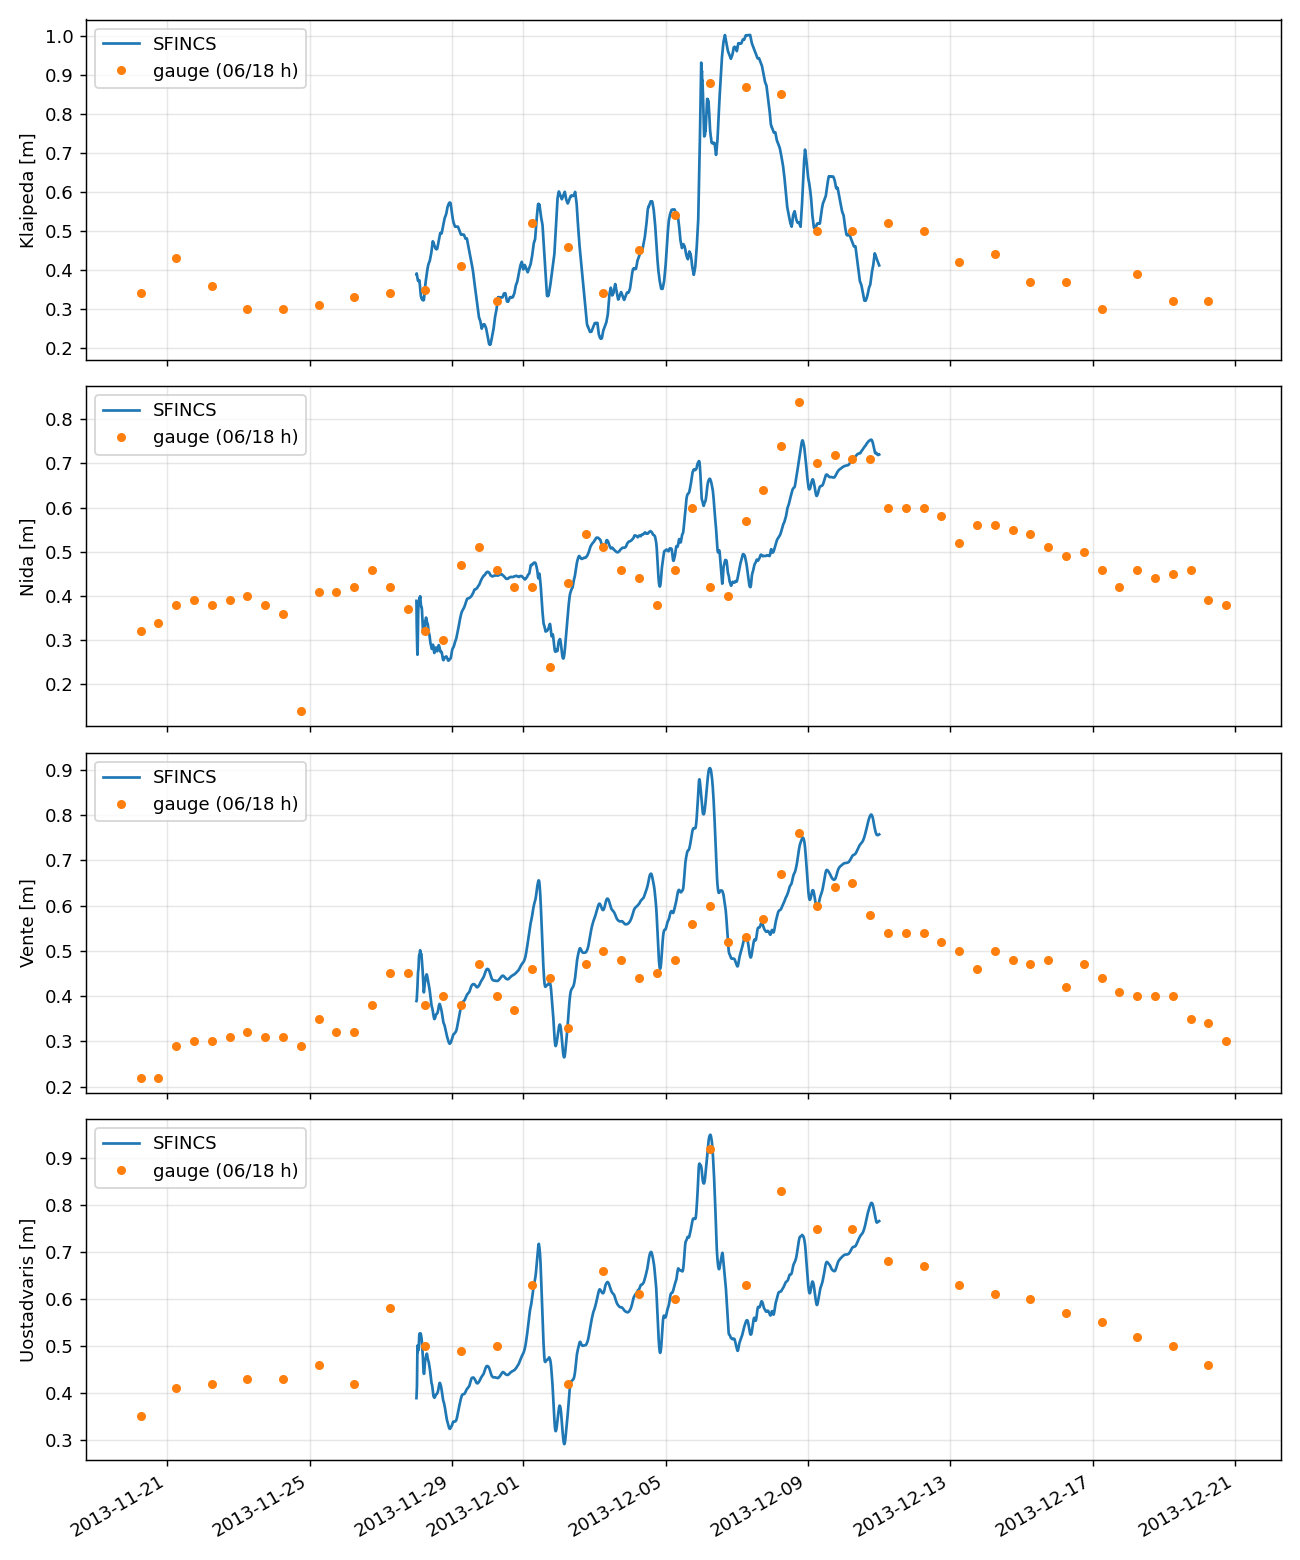
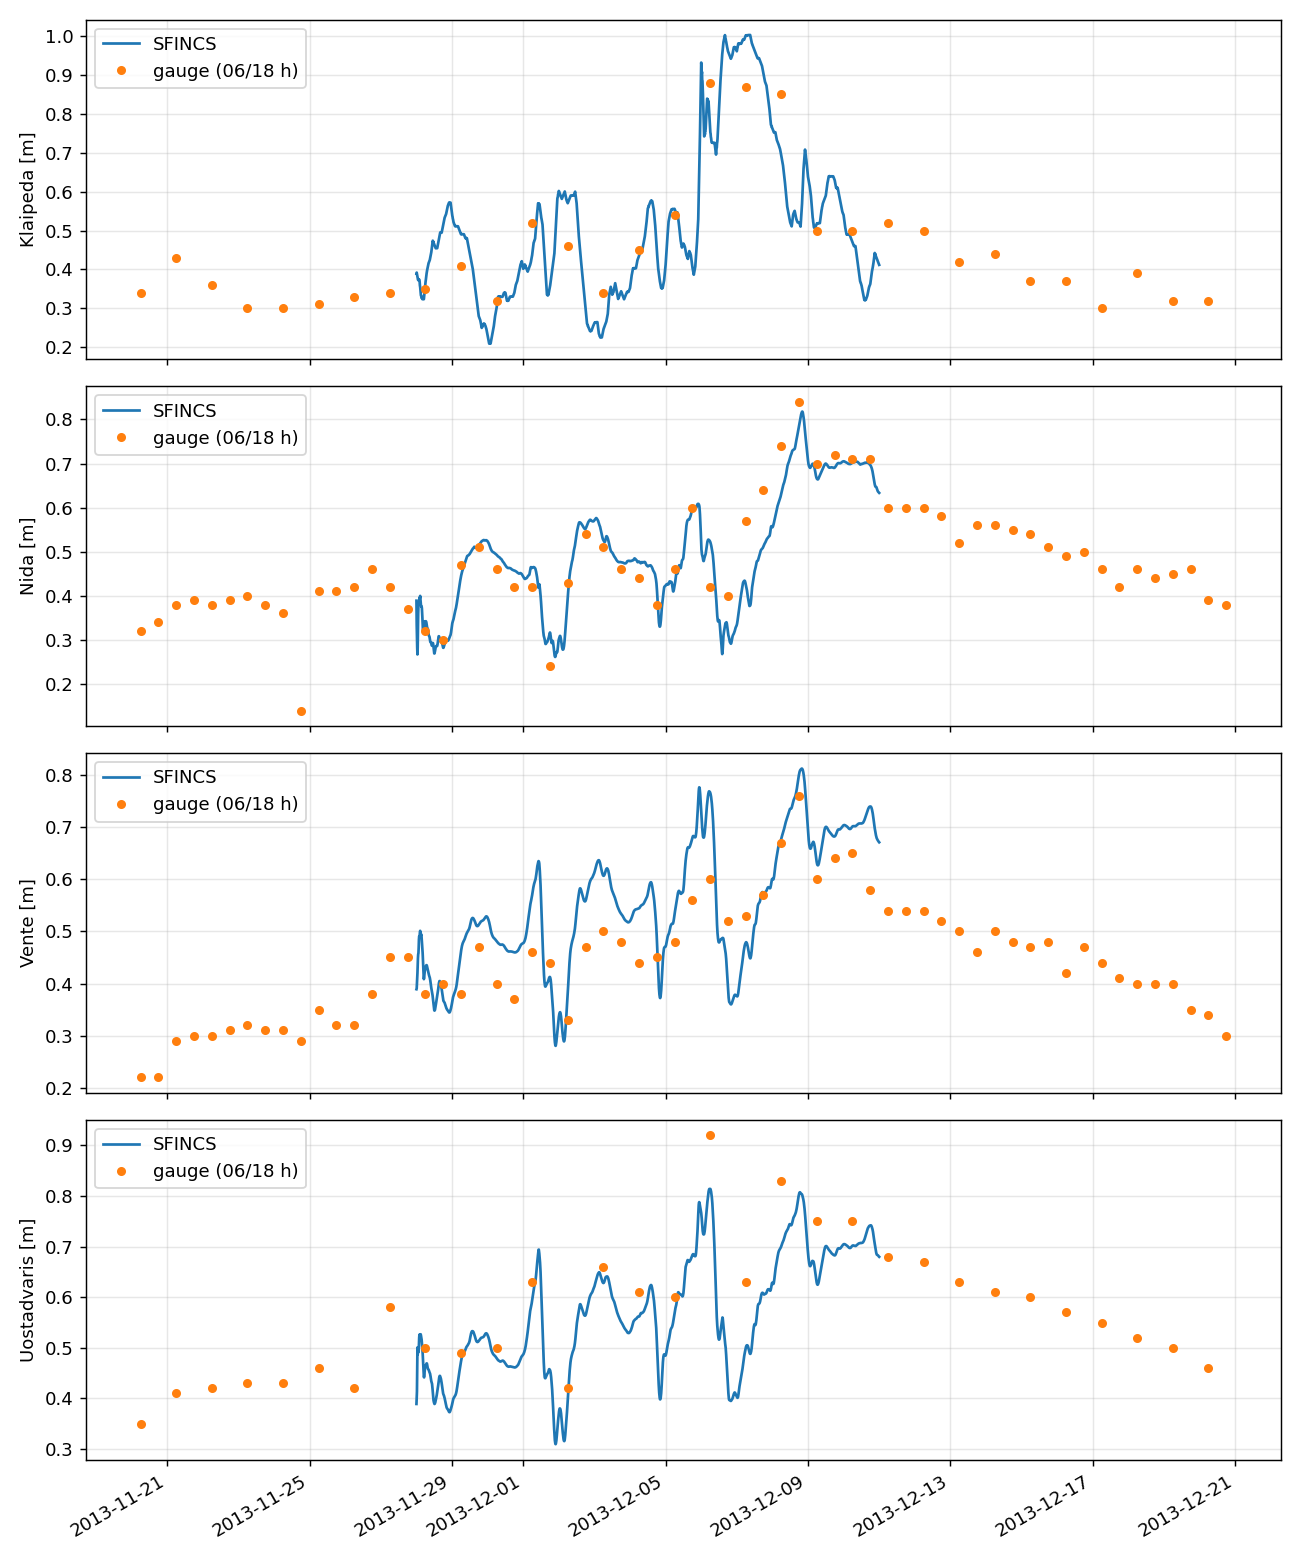
Re-run Xaver 2013 hindcasts on the corrected strait geometry
The published Xaver results (uniform wind, gridded wind, gridded
wind+pressure) were built from a channels.geojson centreline that has
since been fixed (d527683, 3433cdb): the burned strait channel ran
across the Curonian Spit over inactive cells for 4 km, silently doing
nothing there. That's a reproducibility break in version control
regardless of outcome, so all three variants were rebuilt and re-run
unchanged otherwise.

C1-C4 still hold in all three variants. Skill improves at every lagoon
gauge (lower RMSE, higher r) and C2 (Nida rise) moves from "met
(marginal)" to a clean "met" in all three -- the old impounding
geometry was quietly hurting the surge hindcast's lagoon-side skill
even though it never flipped a verdict. Flooded delta area drops by
~5-9 km² per variant.

See .superpowers/sdd/2026-09-16-april-2013-nemunas-flood/xaver-rerun-report.md
for the full before/after comparison.

diff --git a/curonian/results/xaver_2013_gridwind/validation.md b/curonian/results/xaver_2013_gridwind/validation.md
@@ -4,26 +4,26 @@ Whole period: 2013-11-28 00:00 to 2013-12-11 00:00
 
 | station | n | bias m | RMSE m | r | peak err m | peak dt h |
 |---|---|---|---|---|---|---|
-| Klaipeda | 13 | -0.01 | 0.09 | 0.90 | +0.12 | +26 |
-| Nida | 26 | -0.01 | 0.10 | 0.77 | -0.09 | +48 |
-| Vente | 26 | +0.06 | 0.11 | 0.76 | +0.14 | -60 |
-| Uostadvaris | 13 | -0.06 | 0.09 | 0.89 | +0.03 | +0 |
+| Klaipeda | 13 | -0.01 | 0.08 | 0.90 | +0.12 | +26 |
+| Nida | 26 | -0.01 | 0.06 | 0.92 | -0.02 | +2 |
+| Vente | 26 | +0.05 | 0.08 | 0.85 | +0.05 | +2 |
+| Uostadvaris | 13 | -0.06 | 0.07 | 0.96 | -0.11 | -0 |
 
 Storm window: 2013-12-05 00:00 to 2013-12-09 00:00
 
 | station | n | bias m | RMSE m | r | peak err m | peak dt h |
 |---|---|---|---|---|---|---|
 | Klaipeda | 4 | -0.03 | 0.12 | 0.72 | +0.12 | +26 |
-| Nida | 8 | -0.02 | 0.14 | 0.42 | -0.13 | +0 |
-| Vente | 8 | +0.06 | 0.14 | 0.37 | +0.14 | -60 |
-| Uostadvaris | 4 | -0.06 | 0.12 | 0.77 | +0.03 | +0 |
+| Nida | 8 | -0.06 | 0.09 | 0.86 | -0.05 | +0 |
+| Vente | 8 | +0.03 | 0.09 | 0.78 | +0.04 | +0 |
+| Uostadvaris | 4 | -0.10 | 0.11 | 0.96 | -0.11 | -0 |
 
-Flooded land in the delta window (depth > 5 cm, ground > 0 m): **140.3 km²**
+Flooded land in the delta window (depth > 5 cm, ground > 0 m): **130.6 km²**
 
 ### Success criteria (spec section 9)
-- C1 Uostadvaris peak [2013-12-05 00:00 to 2013-12-09 00:00]: **met** -- model peak 2013-12-06 06:10, peak err +0.03 m, dt +0.2 h (threshold: peak err within +/-0.15 m and |dt| <= 6 h)
-- C2 Nida 8 Dec rise [2013-12-07 06:00 to 2013-12-08 18:00]: **met (marginal)** -- model 0.48 m -> 0.71 m vs gauge 0.84 m, err -0.13 m, rise reproduced (threshold: err within +/-0.15 m (<=0.10 m for a clean 'met'), rise reproduced in sign)
-- C3 Klaipeda RMSE [2013-12-05 00:00 to 2013-12-09 00:00]: **met** -- storm RMSE 0.12 m (whole-period RMSE 0.09 m) (threshold: storm-window RMSE <= 0.15 m)
+- C1 Uostadvaris peak [2013-12-05 00:00 to 2013-12-09 00:00]: **met** -- model peak 2013-12-06 05:40, peak err -0.11 m, dt -0.3 h (threshold: peak err within +/-0.15 m and |dt| <= 6 h)
+- C2 Nida 8 Dec rise [2013-12-07 06:00 to 2013-12-08 18:00]: **met** -- model 0.43 m -> 0.79 m vs gauge 0.84 m, err -0.05 m, rise reproduced (threshold: err within +/-0.15 m (<=0.10 m for a clean 'met'), rise reproduced in sign)
+- C3 Klaipeda RMSE [2013-12-05 00:00 to 2013-12-09 00:00]: **met** -- storm RMSE 0.12 m (whole-period RMSE 0.08 m) (threshold: storm-window RMSE <= 0.15 m)
 - C4 Silute uplands [delta window (325000, 6105000, 360000, 6145000)]: **met** -- 0.00% of land with ground > 3 m flooded (threshold: < 1 % flooded)
-- Info: Uostadvaris 8 Dec 06:00 [2013-12-08 06:00]: **info** -- model 0.62 m vs gauge 0.83 m, err -0.21 m (threshold: n/a (context only))
-- Info: Nida 8 Dec 06:00 [2013-12-08 06:00]: **info** -- model 0.55 m vs gauge 0.74 m, err -0.19 m (threshold: n/a (context only))
+- Info: Uostadvaris 8 Dec 06:00 [2013-12-08 06:00]: **info** -- model 0.70 m vs gauge 0.83 m, err -0.13 m (threshold: n/a (context only))
+- Info: Nida 8 Dec 06:00 [2013-12-08 06:00]: **info** -- model 0.63 m vs gauge 0.74 m, err -0.11 m (threshold: n/a (context only))

diff --git a/curonian/results/xaver_2013/validation.md b/curonian/results/xaver_2013/validation.md
@@ -5,25 +5,25 @@ Whole period: 2013-11-28 00:00 to 2013-12-11 00:00
 | station | n | bias m | RMSE m | r | peak err m | peak dt h |
 |---|---|---|---|---|---|---|
 | Klaipeda | 13 | -0.01 | 0.08 | 0.91 | +0.13 | +10 |
-| Nida | 26 | -0.01 | 0.10 | 0.74 | -0.07 | -67 |
-| Vente | 26 | +0.05 | 0.12 | 0.70 | +0.19 | -60 |
-| Uostadvaris | 13 | -0.06 | 0.10 | 0.85 | +0.08 | +0 |
+| Nida | 26 | -0.01 | 0.08 | 0.86 | -0.01 | +2 |
+| Vente | 26 | +0.05 | 0.10 | 0.77 | +0.08 | +2 |
+| Uostadvaris | 13 | -0.06 | 0.08 | 0.91 | -0.06 | -0 |
 
 Storm window: 2013-12-05 00:00 to 2013-12-09 00:00
 
 | station | n | bias m | RMSE m | r | peak err m | peak dt h |
 |---|---|---|---|---|---|---|
 | Klaipeda | 4 | -0.03 | 0.12 | 0.73 | +0.13 | +10 |
-| Nida | 8 | -0.03 | 0.16 | 0.35 | -0.07 | -67 |
-| Vente | 8 | +0.05 | 0.16 | 0.34 | +0.19 | -60 |
-| Uostadvaris | 4 | -0.06 | 0.14 | 0.75 | +0.08 | +0 |
+| Nida | 8 | -0.08 | 0.13 | 0.78 | -0.04 | +0 |
+| Vente | 8 | +0.01 | 0.12 | 0.71 | +0.07 | -67 |
+| Uostadvaris | 4 | -0.11 | 0.12 | 0.92 | -0.06 | -0 |
 
-Flooded land in the delta window (depth > 5 cm, ground > 0 m): **165.6 km²**
+Flooded land in the delta window (depth > 5 cm, ground > 0 m): **157.3 km²**
 
 ### Success criteria (spec section 9)
-- C1 Uostadvaris peak [2013-12-05 00:00 to 2013-12-09 00:00]: **met** -- model peak 2013-12-06 06:20, peak err +0.08 m, dt +0.3 h (threshold: peak err within +/-0.15 m and |dt| <= 6 h)
-- C2 Nida 8 Dec rise [2013-12-07 06:00 to 2013-12-08 18:00]: **met (marginal)** -- model 0.46 m -> 0.71 m vs gauge 0.84 m, err -0.13 m, rise reproduced (threshold: err within +/-0.15 m (<=0.10 m for a clean 'met'), rise reproduced in sign)
+- C1 Uostadvaris peak [2013-12-05 00:00 to 2013-12-09 00:00]: **met** -- model peak 2013-12-06 05:50, peak err -0.06 m, dt -0.2 h (threshold: peak err within +/-0.15 m and |dt| <= 6 h)
+- C2 Nida 8 Dec rise [2013-12-07 06:00 to 2013-12-08 18:00]: **met** -- model 0.39 m -> 0.80 m vs gauge 0.84 m, err -0.04 m, rise reproduced (threshold: err within +/-0.15 m (<=0.10 m for a clean 'met'), rise reproduced in sign)
 - C3 Klaipeda RMSE [2013-12-05 00:00 to 2013-12-09 00:00]: **met** -- storm RMSE 0.12 m (whole-period RMSE 0.08 m) (threshold: storm-window RMSE <= 0.15 m)
 - C4 Silute uplands [delta window (325000, 6105000, 360000, 6145000)]: **met** -- 0.00% of land with ground > 3 m flooded (threshold: < 1 % flooded)
-- Info: Uostadvaris 8 Dec 06:00 [2013-12-08 06:00]: **info** -- model 0.60 m vs gauge 0.83 m, err -0.23 m (threshold: n/a (context only))
-- Info: Nida 8 Dec 06:00 [2013-12-08 06:00]: **info** -- model 0.52 m vs gauge 0.74 m, err -0.22 m (threshold: n/a (context only))
+- Info: Uostadvaris 8 Dec 06:00 [2013-12-08 06:00]: **info** -- model 0.68 m vs gauge 0.83 m, err -0.15 m (threshold: n/a (context only))
+- Info: Nida 8 Dec 06:00 [2013-12-08 06:00]: **info** -- model 0.60 m vs gauge 0.74 m, err -0.14 m (threshold: n/a (context only))

diff --git a/curonian/results/xaver_2013_gridwind_pressure/validation.md b/curonian/results/xaver_2013_gridwind_pressure/validation.md
@@ -5,25 +5,25 @@ Whole period: 2013-11-28 00:00 to 2013-12-11 00:00
 | station | n | bias m | RMSE m | r | peak err m | peak dt h |
 |---|---|---|---|---|---|---|
 | Klaipeda | 13 | -0.01 | 0.09 | 0.90 | +0.12 | +26 |
-| Nida | 26 | -0.00 | 0.10 | 0.76 | -0.08 | +48 |
-| Vente | 26 | +0.06 | 0.11 | 0.75 | +0.16 | -60 |
-| Uostadvaris | 13 | -0.05 | 0.09 | 0.88 | +0.04 | +0 |
+| Nida | 26 | -0.01 | 0.06 | 0.91 | -0.03 | +2 |
+| Vente | 26 | +0.05 | 0.08 | 0.84 | +0.04 | +1 |
+| Uostadvaris | 13 | -0.06 | 0.08 | 0.95 | -0.10 | -0 |
 
 Storm window: 2013-12-05 00:00 to 2013-12-09 00:00
 
 | station | n | bias m | RMSE m | r | peak err m | peak dt h |
 |---|---|---|---|---|---|---|
 | Klaipeda | 4 | -0.03 | 0.12 | 0.72 | +0.12 | +26 |
-| Nida | 8 | -0.02 | 0.14 | 0.39 | -0.12 | -68 |
-| Vente | 8 | +0.07 | 0.14 | 0.35 | +0.16 | -60 |
-| Uostadvaris | 4 | -0.05 | 0.11 | 0.77 | +0.04 | +0 |
+| Nida | 8 | -0.06 | 0.10 | 0.84 | -0.06 | +0 |
+| Vente | 8 | +0.02 | 0.09 | 0.76 | +0.03 | +0 |
+| Uostadvaris | 4 | -0.10 | 0.11 | 0.95 | -0.10 | -0 |
 
-Flooded land in the delta window (depth > 5 cm, ground > 0 m): **140.9 km²**
+Flooded land in the delta window (depth > 5 cm, ground > 0 m): **130.1 km²**
 
 ### Success criteria (spec section 9)
-- C1 Uostadvaris peak [2013-12-05 00:00 to 2013-12-09 00:00]: **met** -- model peak 2013-12-06 06:10, peak err +0.04 m, dt +0.2 h (threshold: peak err within +/-0.15 m and |dt| <= 6 h)
-- C2 Nida 8 Dec rise [2013-12-07 06:00 to 2013-12-08 18:00]: **met (marginal)** -- model 0.48 m -> 0.71 m vs gauge 0.84 m, err -0.13 m, rise reproduced (threshold: err within +/-0.15 m (<=0.10 m for a clean 'met'), rise reproduced in sign)
+- C1 Uostadvaris peak [2013-12-05 00:00 to 2013-12-09 00:00]: **met** -- model peak 2013-12-06 05:50, peak err -0.10 m, dt -0.2 h (threshold: peak err within +/-0.15 m and |dt| <= 6 h)
+- C2 Nida 8 Dec rise [2013-12-07 06:00 to 2013-12-08 18:00]: **met** -- model 0.41 m -> 0.78 m vs gauge 0.84 m, err -0.06 m, rise reproduced (threshold: err within +/-0.15 m (<=0.10 m for a clean 'met'), rise reproduced in sign)
 - C3 Klaipeda RMSE [2013-12-05 00:00 to 2013-12-09 00:00]: **met** -- storm RMSE 0.12 m (whole-period RMSE 0.09 m) (threshold: storm-window RMSE <= 0.15 m)
 - C4 Silute uplands [delta window (325000, 6105000, 360000, 6145000)]: **met** -- 0.00% of land with ground > 3 m flooded (threshold: < 1 % flooded)
-- Info: Uostadvaris 8 Dec 06:00 [2013-12-08 06:00]: **info** -- model 0.62 m vs gauge 0.83 m, err -0.21 m (threshold: n/a (context only))
-- Info: Nida 8 Dec 06:00 [2013-12-08 06:00]: **info** -- model 0.55 m vs gauge 0.74 m, err -0.19 m (threshold: n/a (context only))
+- Info: Uostadvaris 8 Dec 06:00 [2013-12-08 06:00]: **info** -- model 0.69 m vs gauge 0.83 m, err -0.14 m (threshold: n/a (context only))
+- Info: Nida 8 Dec 06:00 [2013-12-08 06:00]: **info** -- model 0.62 m vs gauge 0.74 m, err -0.12 m (threshold: n/a (context only))
